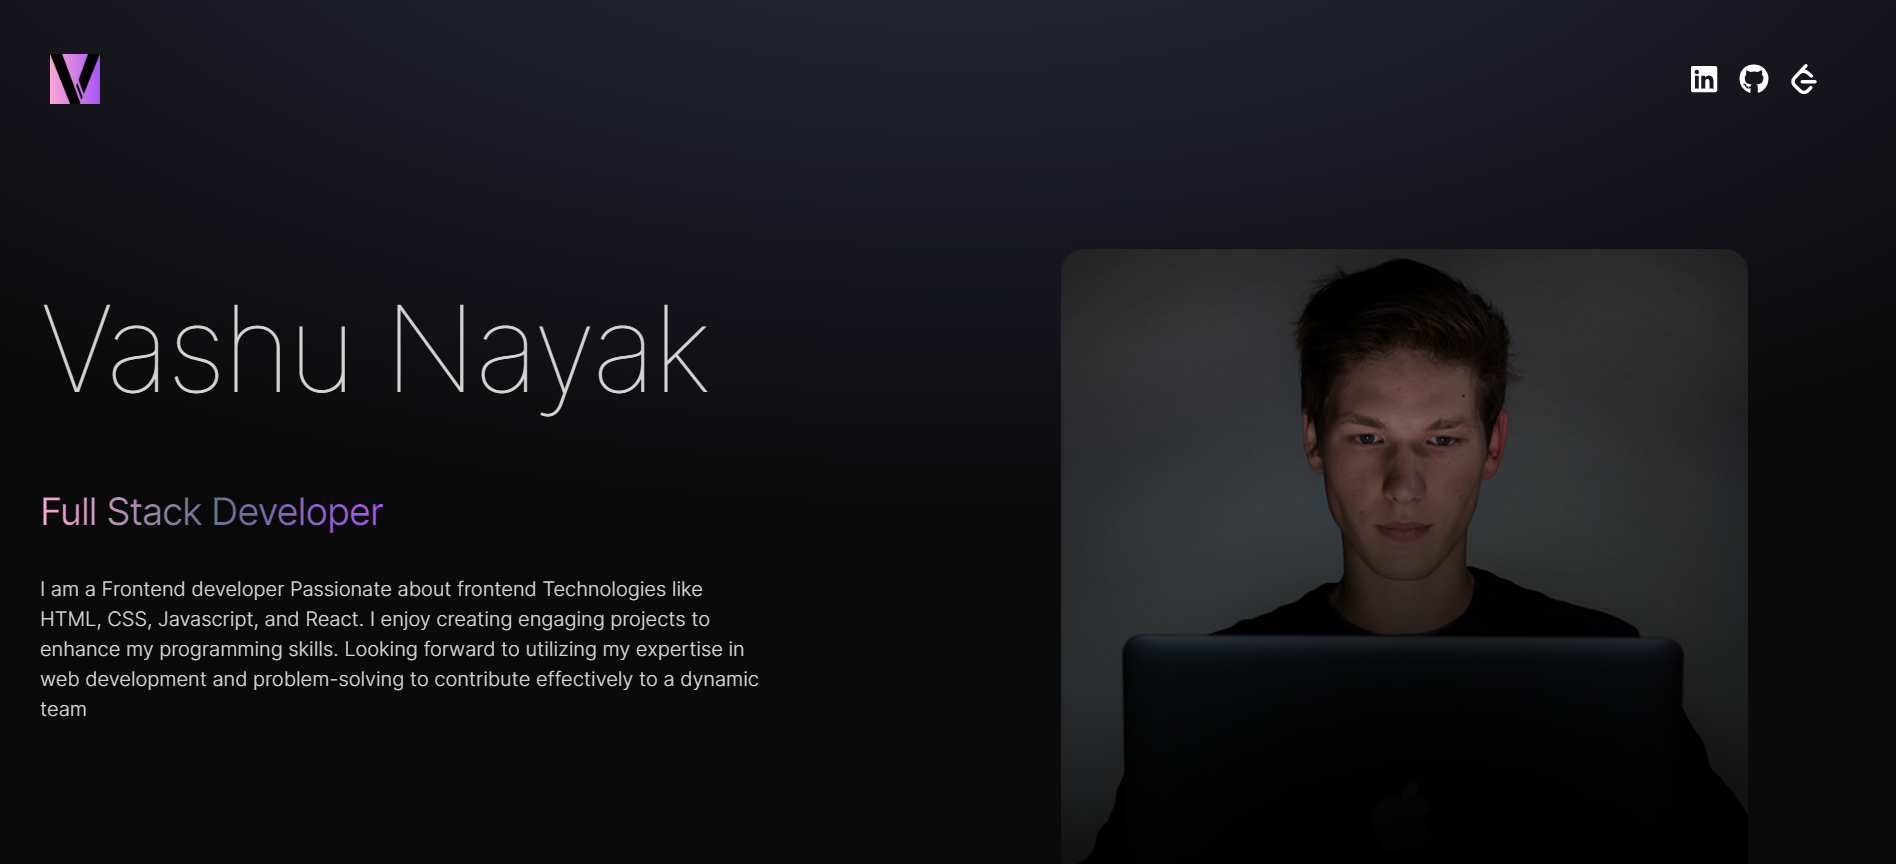
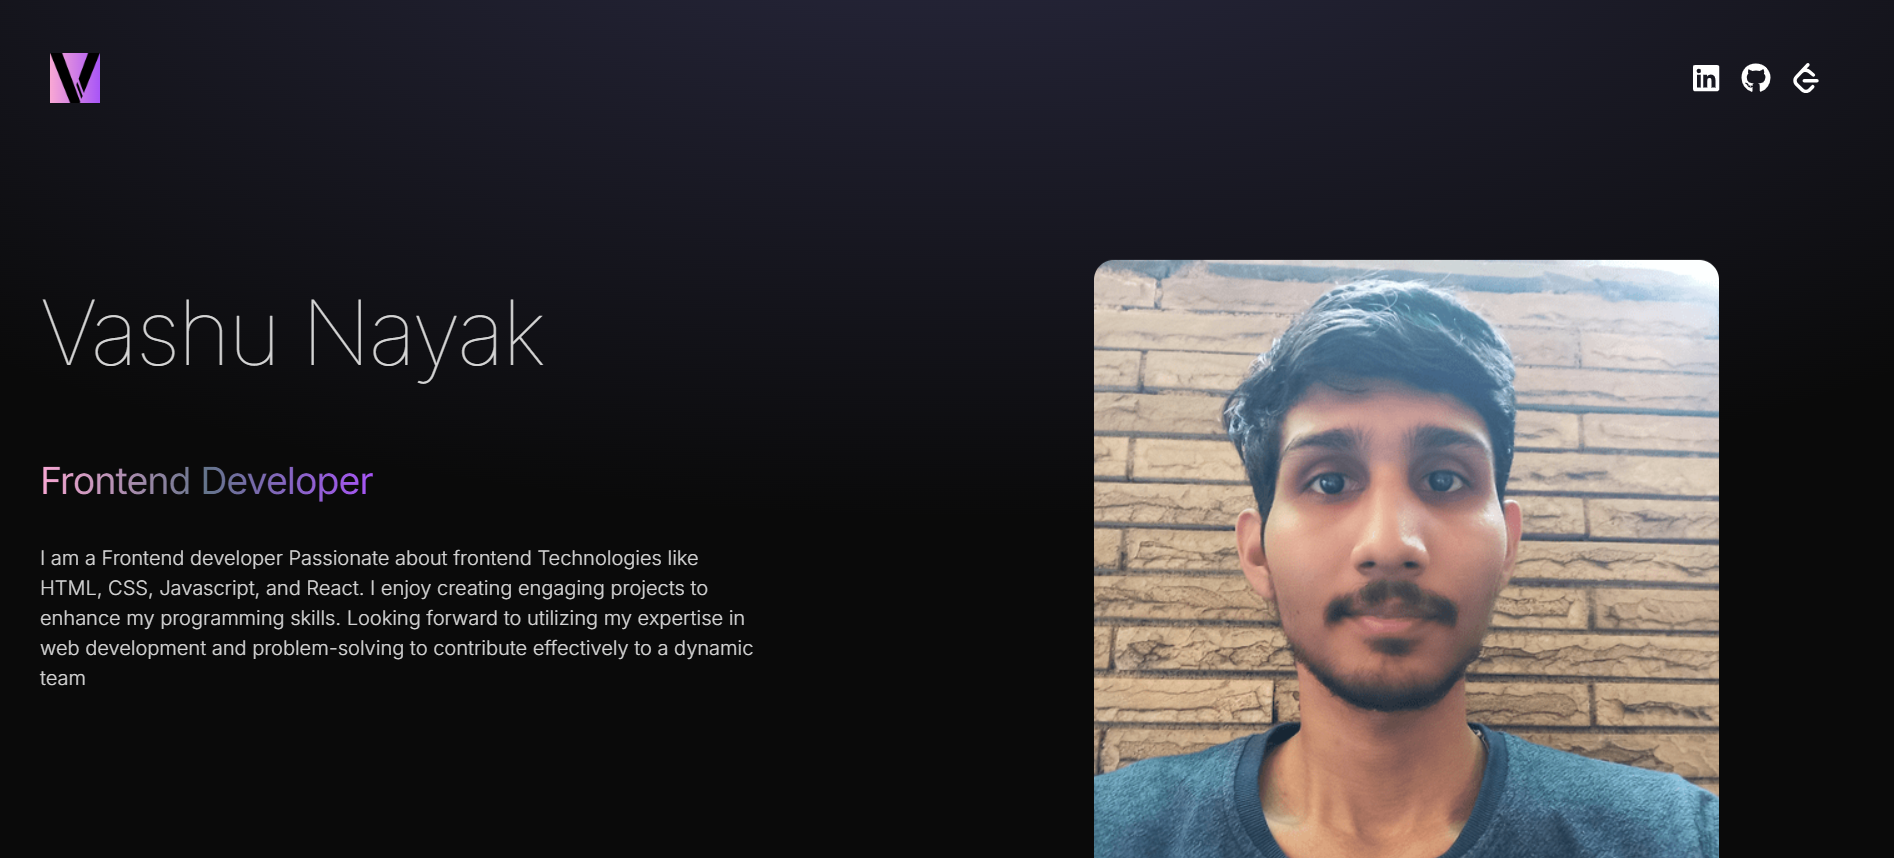
some minor changes

diff --git a/src/components/Technologies.jsx b/src/components/Technologies.jsx
@@ -3,8 +3,10 @@ import { RiReactjsLine } from 'react-icons/ri';
 import { TbBrandNextjs } from 'react-icons/tb';
 import { SiMongodb } from 'react-icons/si';
 import { FaNodeJs } from 'react-icons/fa';
-import { BiLogoPostgresql } from 'react-icons/bi';
-import { DiRedis } from 'react-icons/di';
+import { IoLogoJavascript } from "react-icons/io5";
+import { SiExpress } from "react-icons/si";
+// import { BiLogoPostgresql } from 'react-icons/bi';
+// import { DiRedis } from 'react-icons/di';
 import { motion } from 'framer-motion'
 
 const iconVariants = (duration) => ({
@@ -43,6 +45,13 @@ const Technologies = () => {
                     initial="initial"
                     animate="animate"
                     className="rounded-2xl border-4 border-neutral-800 p-4">
+                    <IoLogoJavascript className='text-7xl text-yellow-400' />
+                </motion.div>
+                <motion.div
+                    variants={iconVariants(2)}
+                    initial="initial"
+                    animate="animate"
+                    className="rounded-2xl border-4 border-neutral-800 p-4">
                     <RiReactjsLine className='text-7xl text-cyan-400' />
                 </motion.div>
                 <motion.div
@@ -53,19 +62,26 @@ const Technologies = () => {
                     <TbBrandNextjs className='text-7xl' />
                 </motion.div>
                 <motion.div
+                    variants={iconVariants(3)}
+                    initial="initial"
+                    animate="animate"
+                    className="rounded-2xl border-4 border-neutral-800 p-4">
+                    <SiExpress className='text-7xl' />
+                </motion.div>
+                <motion.div
                     variants={iconVariants(4)}
                     initial="initial"
                     animate="animate"
                     className="rounded-2xl border-4 border-neutral-800 p-4">
                     <SiMongodb className='text-7xl text-green-500' />
                 </motion.div>
-                <motion.div
+                {/* <motion.div
                     variants={iconVariants(6)}
                     initial="initial"
                     animate="animate"
                     className="rounded-2xl border-4 border-neutral-800 p-4">
                     <DiRedis className='text-7xl text-red-500' />
-                </motion.div>
+                </motion.div> */}
                 <motion.div
                     variants={iconVariants(8)}
                     initial="initial"
@@ -73,13 +89,13 @@ const Technologies = () => {
                     className="rounded-2xl border-4 border-neutral-800 p-4">
                     <FaNodeJs className='text-7xl text-green-600' />
                 </motion.div>
-                <motion.div
+                {/* <motion.div
                     variants={iconVariants(4)}
                     initial="initial"
                     animate="animate"
                     className="rounded-2xl border-4 border-neutral-800 p-4">
                     <BiLogoPostgresql className='text-7xl text-cyan-400' />
-                </motion.div>
+                </motion.div> */}
             </motion.div>
         </div>
     )

diff --git a/src/constants/index.js b/src/constants/index.js
@@ -1,12 +1,10 @@
 import project1 from "../assets/projects/project1.png";
 import project2 from "../assets/projects/project2.png";
 import project3 from "../assets/projects/project3.png";
+import project4 from "../assets/projects/project4.png";
 
 
-export const HERO_CONTENT = `I am a Frontend developer Passionate about frontend Technologies like HTML,
-CSS, Javascript, and React. I enjoy creating engaging projects to enhance my
-programming skills. Looking forward to utilizing my expertise in web
-development and problem-solving to contribute effectively to a dynamic team`;
+export const HERO_CONTENT = `A passionate and dedicated MERN Stack Developer with a strong foundation in developing full-stack web applications. Proficient in building responsive, user-centric interfaces using React, managing server-side operations with Node.js and Express, and ensuring data persistence with MongoDB. Committed to delivering efficient, maintainable, and high-performance solutions. Currently enhancing technical expertise through hands-on projects. A recent graduate eager to contribute to dynamic development teams and tackle complex challenges.`;
 
 export const ABOUT_TEXT = `I am a Frontend developer Passionate about frontend Technologies like HTML,
 CSS, Javascript, and React. I enjoy creating engaging projects to enhance my
@@ -18,13 +16,20 @@ export const EXPERIENCES = [
     year: "Dec 2021 - Jan 2022 ",
     company: "Verzeo - Internship ",
     role: "Web Developer",
-    description: `work in a team in developing and maintaining web applications using JavaScript, React.js, and Node.js.`,
+    description: `work in a team in developing and maintaining web applications using JavaScript and React.js, `,
     technologies: ["HTML", "CSS", "Javascript", "React.js"],
   },
   
 ];
 
 export const PROJECTS = [
+  {
+    title: "ConvoConnect : Realtime Chat Application",
+    image: project4,
+    description:
+      "ConvoConnect is a real-time chatting web application designed with a clean UI and smooth user experience. It supports instant messaging, active user tracking, and dynamic chat rooms.",
+    technologies: ["React", "Node.js", "Express", "Socket.io", "MongoDB"],
+  },
   {
     title: "Portfolio Website",
     image: project1,
@@ -39,13 +44,7 @@ export const PROJECTS = [
       "An application that fetches and displays weather data using the OpenWeather API. It provides current weather information for any city around the world.",
     technologies: ["HTML", "CSS", "React", "Node.js"],
   },
-  {
-    title: "Todo App",
-    image: project3,
-    description:
-      "An application that allows users to manage their tasks efficiently. Users can create, read, update, and delete (CRUD) tasks with a user-friendly interface.",
-    technologies: ["HTML", "CSS", "React"],
-  },
+  
   
   
 ];

diff --git a/src/components/Hero.jsx b/src/components/Hero.jsx
@@ -15,15 +15,15 @@ const container = (delay) => ({
 const iconVariants = (duration) => ({
   initial: { y: -10 },
   animate: {
-      y: [10, -10],
-      transition: {
-          duration: duration,
-          ease: "linear",
-          repeat: Infinity,
-          repeatType: "reverse",
-          delay: 0.5
+    y: [10, -10],
+    transition: {
+      duration: duration,
+      ease: "linear",
+      repeat: Infinity,
+      repeatType: "reverse",
+      delay: 0.5
 
-      }
+    }
   }
 })
 
@@ -47,7 +47,7 @@ const Hero = () => {
               animate="visible"
               className=" bg-gradient-to-r from-pink-300 via-slate-500 to-purple-500 bg-clip-text text-3xl tracking-tight text-transparent"
             >
-              Frontend Developer
+              FullStack Developer
             </motion.span>
             <motion.p
               variants={container(1)}
@@ -57,18 +57,28 @@ const Hero = () => {
             >
               {HERO_CONTENT}
             </motion.p>
+            <motion.a
+            variants={container(1.5)}
+            initial="hidden"
+            animate="visible"
+            href='https://storage.googleapis.com/acciojob-user-content/resumes/b6752f49-1fb0-4f5c-8b55-a3546de038f5-VashufullstackResume.pdf'
+            target='_blank'
+            rel='noopener noreferrer'
+            download
+            className='bg-white rounded-full p-4 text-sm text-stone-800 mb-10'
+          >Download Resume</motion.a>
           </div>
         </div>
         <div className=" w-full lg:w-1/2 lg:p-8">
-          <motion.div 
-          variants={iconVariants(2)}
-          initial="initial"
-          animate="animate"
-          className=" flex justify-center ">
+          <motion.div
+            variants={iconVariants(2)}
+            initial="initial"
+            animate="animate"
+            className=" flex justify-center ">
             <motion.img initial={{ x: 100, opacity: 0 }}
               animate={{ x: 0, opacity: 1 }}
               transtion={{ duration: 1, delay: 1.2 }}
-              src={profilePic} 
+              src={profilePic}
               alt="Vashu Nayak"
               className='rounded-2xl'
             />

diff --git a/src/components/Navbar.jsx b/src/components/Navbar.jsx
@@ -1,5 +1,5 @@
 import React from 'react'
-import logo from '../assets/letter-v.png';
+import logo from '../assets/v-letter.jpg';
 import { FaLinkedin } from 'react-icons/fa';
 import { FaGithub } from 'react-icons/fa';
 import { SiLeetcode } from "react-icons/si";
@@ -11,6 +11,7 @@ const Navbar = () => {
     <nav className=" mb-10 flex items-center justify-between py-5 ">
         <div className="flex flex-shrink-0 items-center text-white ">
             <img className='mx-2 w-10  text-white bg-gradient-to-r from-pink-300 via--300 to-purple-500 tracking-tight ' src={logo} alt="logo" />
+            
         </div>
         <div className='m-8 flex items-center justify-center gap-4 text-2xl text-white'>
             <FaLinkedin onClick={() => window.open("https://www.linkedin.com/in/vashu-nayak/")}/>

diff --git a/src/components/Projects.jsx b/src/components/Projects.jsx
@@ -29,7 +29,7 @@ const Projects = () => {
                 initial={{ opacity: 0, x: 100 }}
                 transition={{ duration: 1 }} 
                 className="w-full max-w-xl lg:w-3/4">
-                    <h6 className='mb-2 font-semibold'>{project.name}</h6>
+                    <h6 className='mb-2 font-semibold'>{project.title}</h6>
                     <p className='mb-4 text-neutral-400'>{project.description}</p>
                     {project.technologies.map((tech, index)=>(
                         <span key={index} className="mr-2 rounded bg-neutral-900 px-2 py-1 text-sm font-medium text-purple-900"> {tech} </span>

diff --git a/src/App.jsx b/src/App.jsx
@@ -18,7 +18,7 @@ const App = () => {
         
         <Navbar />
         <Hero />
-        <About />
+        {/* <About /> */}
         <Technologies />
         <Experience />
         <Project />
